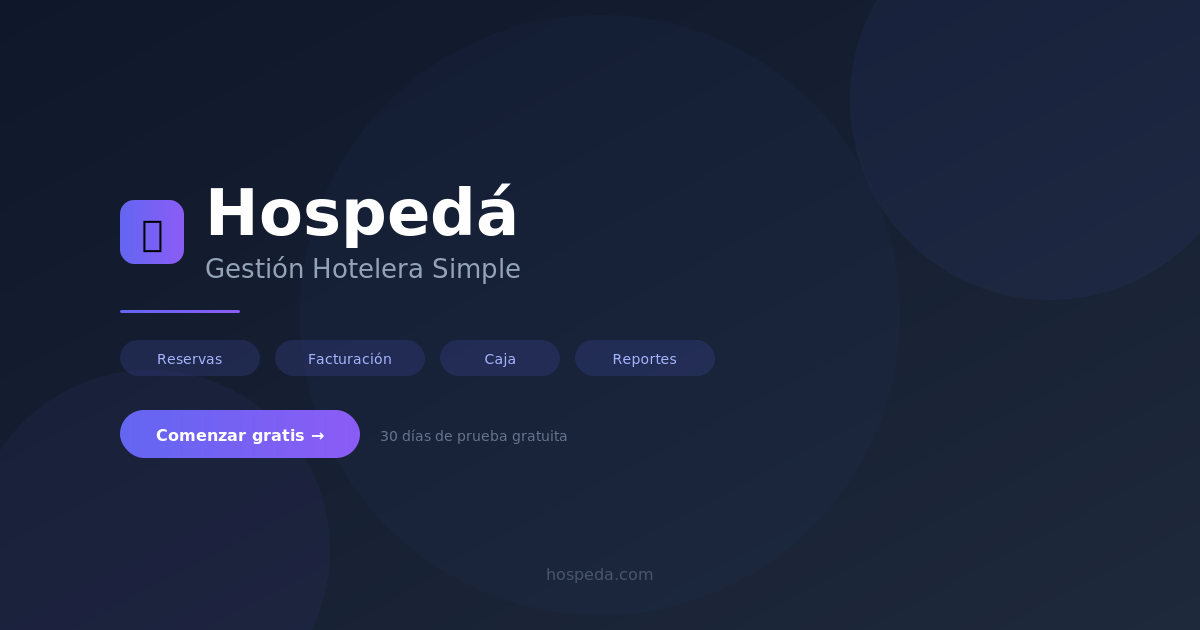
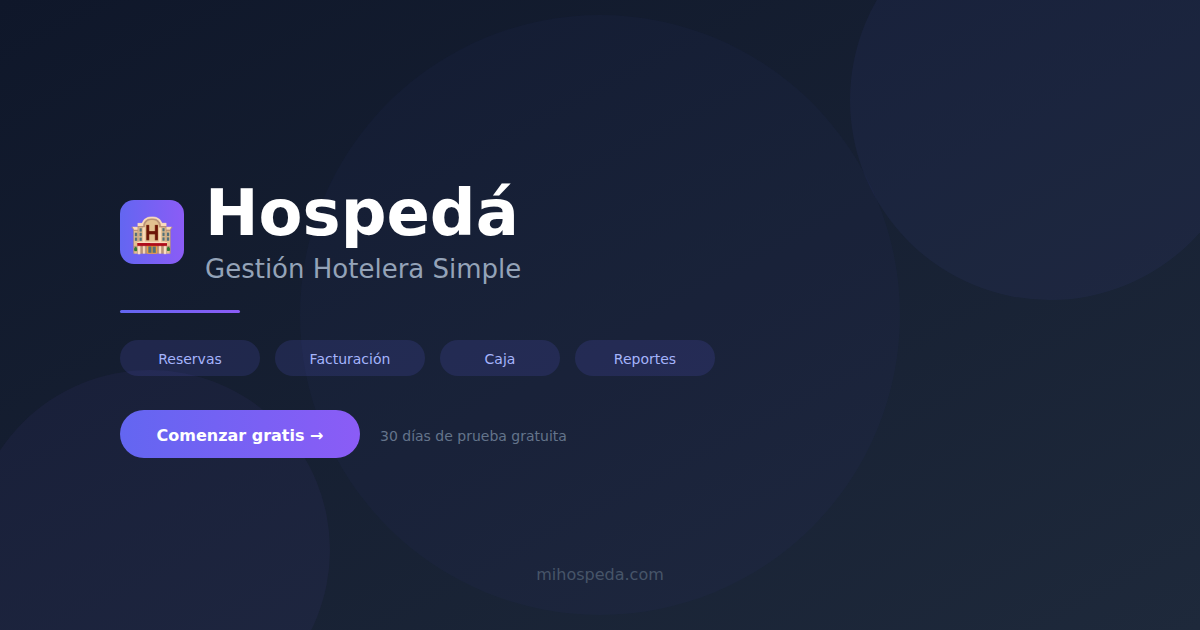
Dominio: www.mihospeda.com en metadatos, sitemap, robots e imagen para redes
Decían hospeda.com, que no es nuestro. Se sube junto con el cambio de
NEXT_PUBLIC_APP_URL y NEXTAUTH_URL en Vercel. El plan completo del cambio
(servicios externos, variables, orden y pruebas) queda en
docs/cambio-de-dominio.md.

Claude-Session: https://claude.ai/code/session_01KuwJ62o8hDS6ST2C39Hg4F

diff --git a/src/app/layout.tsx b/src/app/layout.tsx
@@ -29,12 +29,12 @@ export const metadata: Metadata = {
   ],
   authors: [{ name: "Hospi" }],
   creator: "Hospi",
-  metadataBase: new URL("https://hospeda.com"),
+  metadataBase: new URL("https://www.mihospeda.com"),
   alternates: { canonical: "/" },
   openGraph: {
     type: "website",
     locale: "es_AR",
-    url: "https://hospeda.com",
+    url: "https://www.mihospeda.com",
     siteName: "Hospi",
     title: "Hospi — Gestión Hotelera Simple",
     description:

diff --git a/src/app/sitemap.ts b/src/app/sitemap.ts
@@ -1,6 +1,6 @@
 import type { MetadataRoute } from 'next';
 
-const BASE_URL = 'https://hospeda.com';
+const BASE_URL = 'https://www.mihospeda.com';
 
 export default function sitemap(): MetadataRoute.Sitemap {
   return [

diff --git a/docs/cambio-de-dominio.md b/docs/cambio-de-dominio.md
@@ -1,0 +1,103 @@
+# Cambio al dominio www.mihospeda.com
+
+Plan del cambio de `hospeda-delta.vercel.app` a `https://www.mihospeda.com`.
+Fecha prevista: domingo 04/10/2026 a las 00:00 (Argentina), cuando nadie usa el sistema.
+
+## Cómo quedó el dominio en Vercel
+
+| Dirección | Qué hace |
+|---|---|
+| `www.mihospeda.com` | Principal: ahí abre el sistema. |
+| `mihospeda.com` | Redirige (308) a `www`. |
+| `hospeda-delta.vercel.app` | Sigue funcionando igual. **No borrarla ni redirigirla.** |
+
+Siempre se usa `https://www.mihospeda.com` (con www): sin www hay una
+redirección y Mercado Pago y Google no siempre la siguen (sobre todo los avisos).
+
+La dirección vieja tiene que seguir andando porque quedó guardada afuera:
+los calendarios iCal que los hoteles pegaron en Booking y Airbnb
+(`/api/ical/...`), las señas ya pedidas por Mercado Pago (su
+`notification_url`), el cron externo que llama a `/api/cron/expirar-reservas`
+y los links a `/h/<hotel>` ya compartidos.
+
+## Orden
+
+Regla: **primero se agrega la dirección nueva afuera (sin sacar la vieja), recién
+después se cambia Vercel.** Al revés, el inicio de sesión con Google y la
+conexión de Mercado Pago de los hoteles fallan en el medio.
+
+### 1. Servicios externos (agregar, no sacar)
+
+1. **Google Cloud** → APIs y servicios → Credenciales → cliente OAuth:
+   - Origen autorizado: `https://www.mihospeda.com`
+   - URI de redirección: `https://www.mihospeda.com/api/auth/callback/google`
+2. **Mercado Pago** → Tus integraciones → la aplicación:
+   - Redirección (conectar Mercado Pago de los hoteles, para señas):
+     `https://www.mihospeda.com/api/configuracion/mercadopago/callback`
+   - Sitio de la aplicación (si tiene uno): `https://www.mihospeda.com`
+     (el `back_url` de la suscripción tiene que coincidir).
+   - Webhooks: `https://www.mihospeda.com/api/payments/mercadopago/webhook`,
+     eventos "Pagos" y "Planes y suscripciones". Simular: tiene que dar 200.
+3. **Cloudflare R2** → bucket → Settings → CORS policy: agregar
+   `https://www.mihospeda.com` a los orígenes permitidos (las fotos y logos se
+   suben directo desde el navegador).
+
+### 2. Vercel (solo Production)
+
+| Variable | Valor nuevo |
+|---|---|
+| `NEXT_PUBLIC_APP_URL` | `https://www.mihospeda.com` |
+| `NEXTAUTH_URL` | `https://www.mihospeda.com` |
+
+Las demás variables no cambian. Después: **Redeploy** (`NEXT_PUBLIC_APP_URL`
+se fija al compilar).
+
+### 3. Código (commit listo, se sube junto con el paso 2)
+
+`src/app/layout.tsx`, `src/app/sitemap.ts`, `public/robots.txt`,
+`public/og-image.svg` y `public/og-image.png` decían `hospeda.com` (que no es
+nuestro); pasan a `www.mihospeda.com`.
+
+### 4. Probar (entrando por www.mihospeda.com)
+
+1. Iniciar sesión con email y contraseña, y con Google.
+2. Simular el webhook en Mercado Pago: 200 (confirmar en los registros de Vercel).
+3. Subir una foto en Configuración.
+4. Elegir un plan y llegar hasta la pantalla de pago de Mercado Pago (sin pagar).
+
+Quien tenía la sesión abierta en la dirección vieja tiene que volver a iniciar
+sesión en la nueva (cada dirección guarda su sesión).
+
+## Después, sin apuro
+
+- Cambiar la dirección en el cron externo de `expirar-reservas` (la vieja sigue andando).
+- Google Cloud → Pantalla de consentimiento OAuth: agregar `mihospeda.com` como
+  dominio autorizado y poner los links de inicio, `/privacidad` y `/terminos`
+  con el dominio nuevo.
+
+## Pendiente: emails con Resend (quedó esperando el dominio)
+
+Configuración:
+- En Resend agregar el dominio de envío (subdominio, p. ej. `mail.mihospeda.com`)
+  y cargar sus registros (SPF, DKIM y DMARC) en el DNS de Vercel.
+- Variable `RESEND_FROM_DOMAIN` en Vercel. `RESEND_API_KEY` ya está cargada.
+- Hoy, como hay clave pero el dominio no está verificado, los emails que el
+  sistema intenta mandar (verificación al registrarse) fallan sin avisar.
+- Recibir emails en `soporte@mihospeda.com` necesita un reenvío aparte (Resend
+  manda; para recibir hay que configurar un servicio de reenvío o casilla).
+
+Emails a hacer:
+1. **Recuperar la contraseña.** El código existe pero está apagado
+   (`src/app/api/auth/forgot-password/route.ts`); hoy la pantalla dice que se
+   contacte al administrador.
+2. **Verificar el email al registrarse.** Ya se intenta mandar
+   (`src/app/api/auth/register/route.ts`); falla hasta verificar el dominio.
+3. **Suscripción:** alta del débito automático, cobro aprobado (recibo), cobro
+   rechazado (revisar la tarjeta, días de gracia), la prueba gratis o la
+   cortesía están por terminar, cambio de precio programado y baja.
+4. **Avisos de la plataforma** desde Super Admin a todos los dueños, p. ej.
+   mantenimientos programados.
+5. **Invitación a usuarios del hotel**: la función existe
+   (`sendInvitationEmail`) pero no se usa.
+6. A decidir: confirmación de reserva al huésped y aviso al hotel de una
+   reserva o seña nueva desde la página web.
